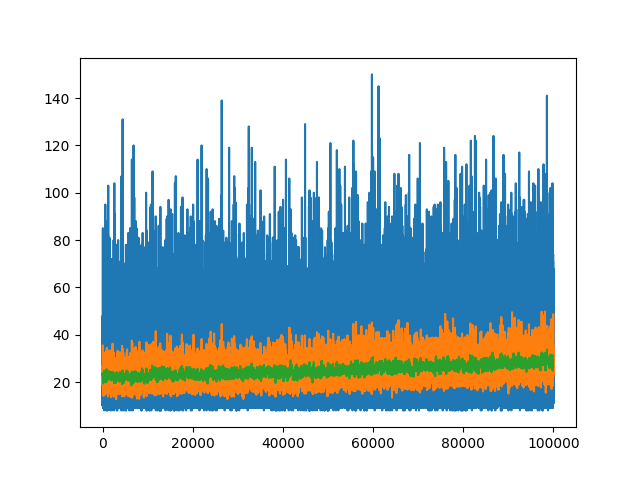
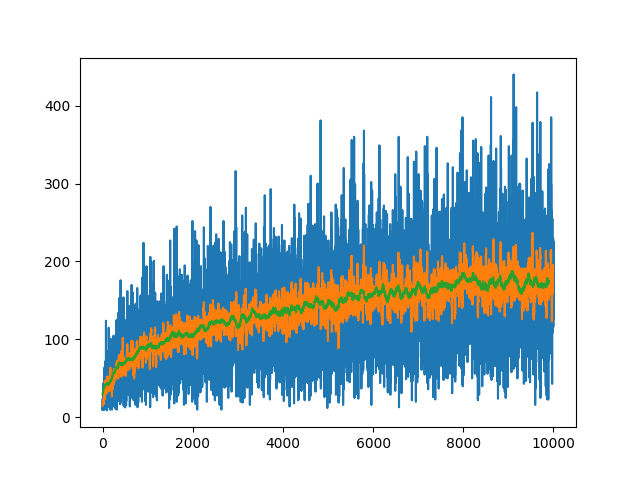
done with off policy MC

diff --git a/samples/off_policy_monte_carlo_control/Experiment_create.py b/samples/off_policy_monte_carlo_control/Experiment_create.py
@@ -76,7 +76,7 @@ def main():
 
 
 	# Configure experiment
-	num_eps = 1000000
+	num_eps = 100000
 	# initialize rlglue
 	rlglue.rl_init()
 
@@ -88,7 +88,7 @@ def main():
 	#rlglue.rl_env_message('renderON')
 	#for ep in range(num_eps):
 	ep = 0
-	while True:
+	while ep < num_eps:
 		ep += 1
 		#if ep % int(num_eps/10) == 0:
 		#print('ep:', ep, 'bestpolicy', max_reward)

diff --git a/samples/off_policy_monte_carlo_control/Environment.py b/samples/off_policy_monte_carlo_control/Environment.py
@@ -13,7 +13,7 @@ class Environment:
 	
 	env = None
 	render = None
-	precision = 2
+	precision = 1
 
 	# Declare environment variables
 	# Run once, in experiment
